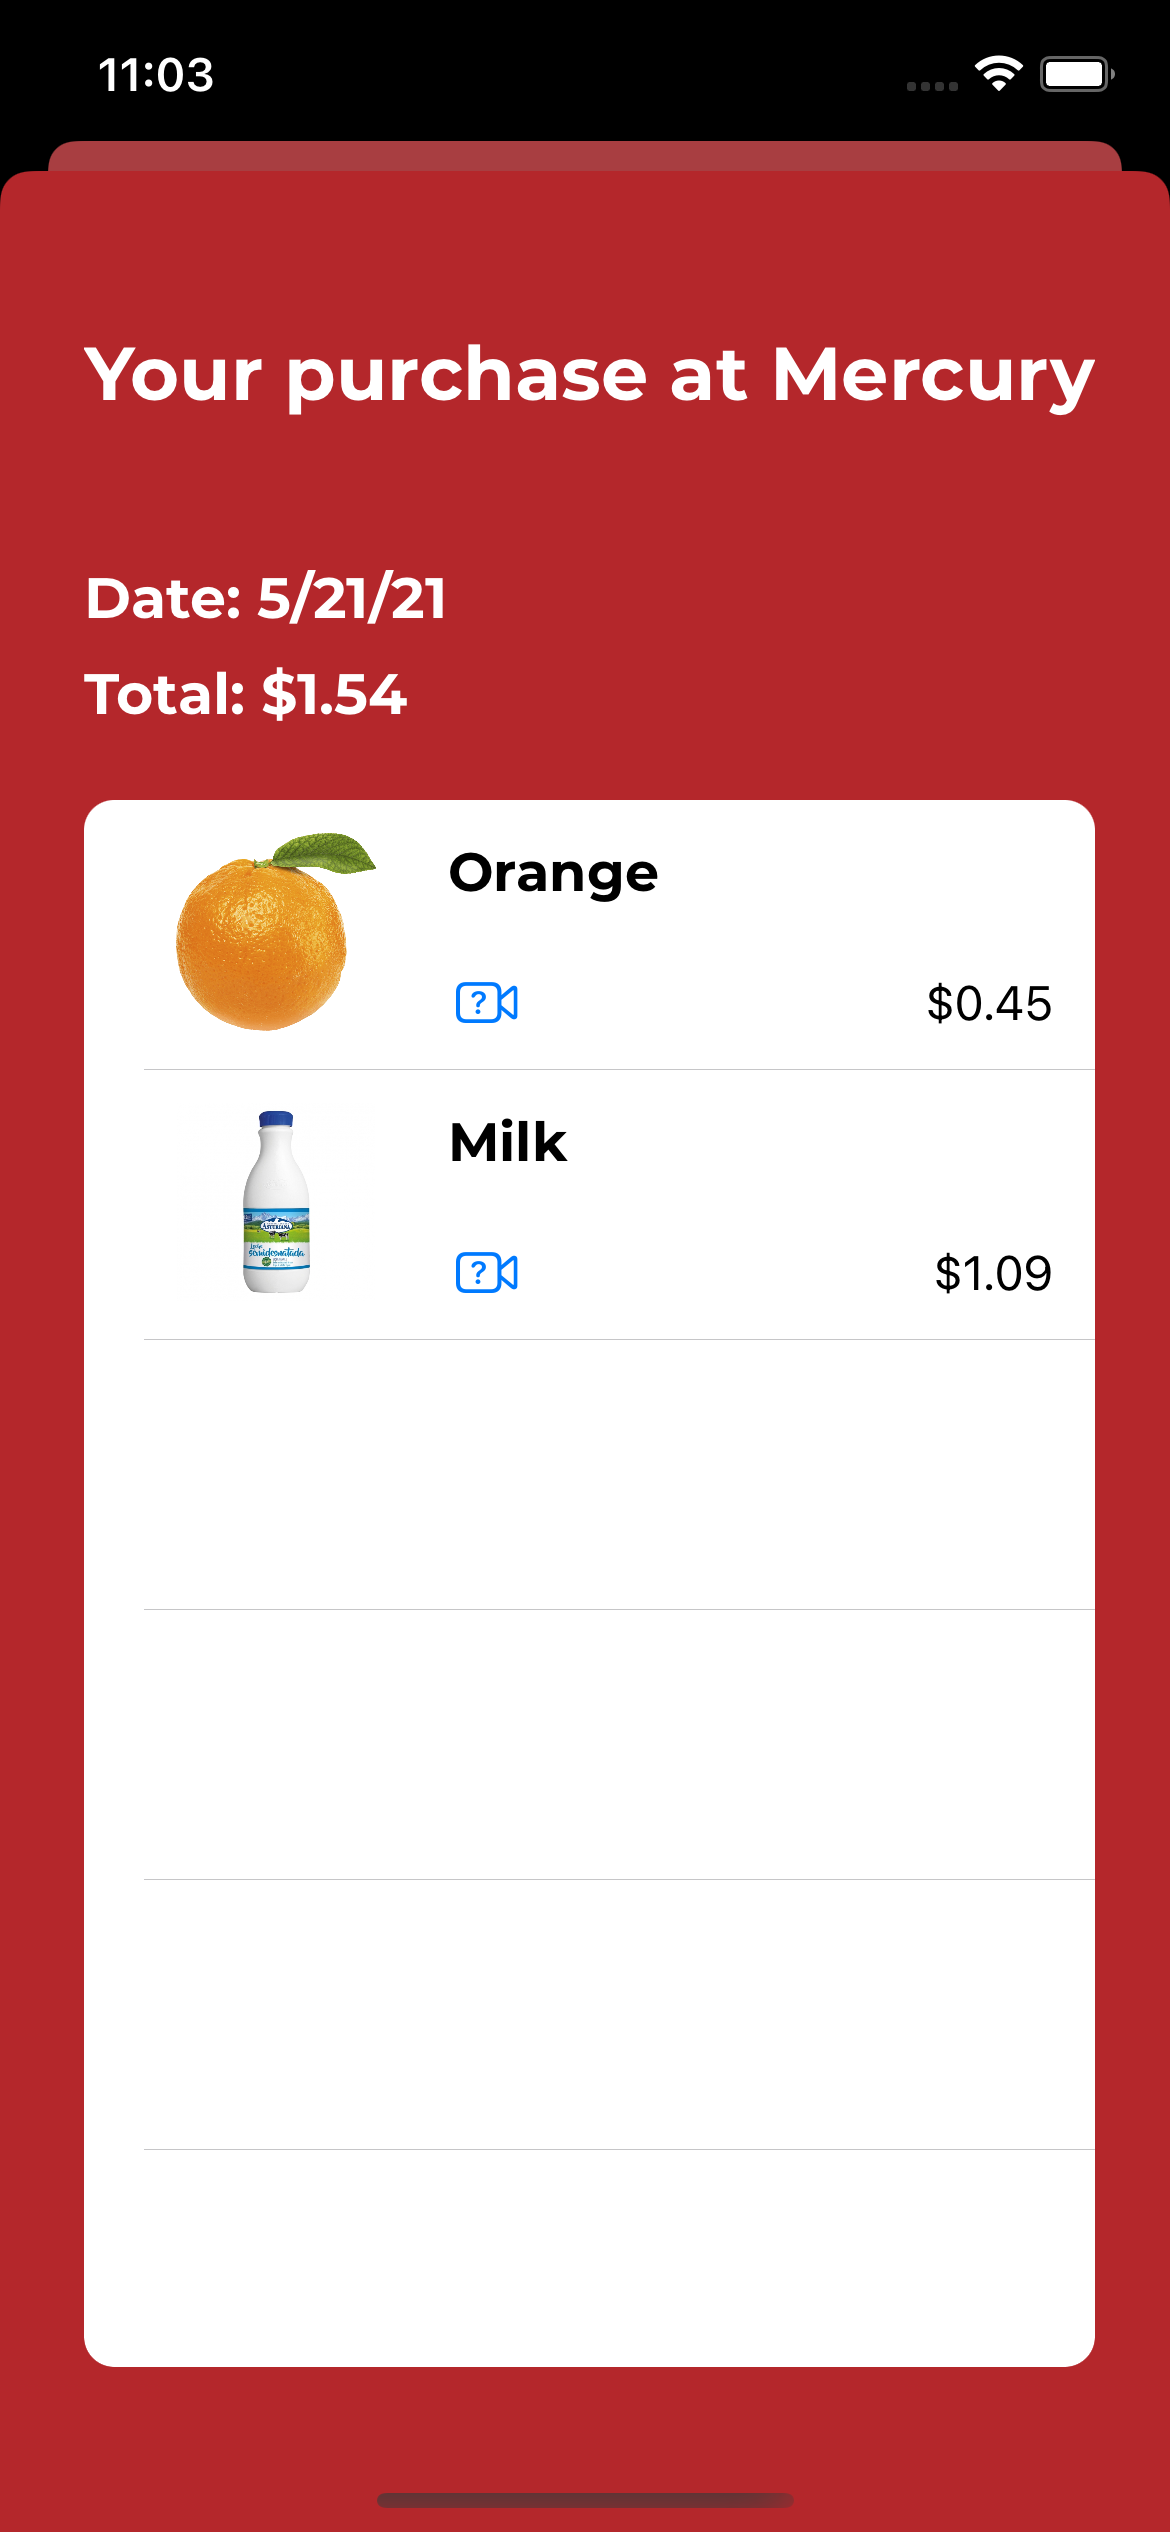
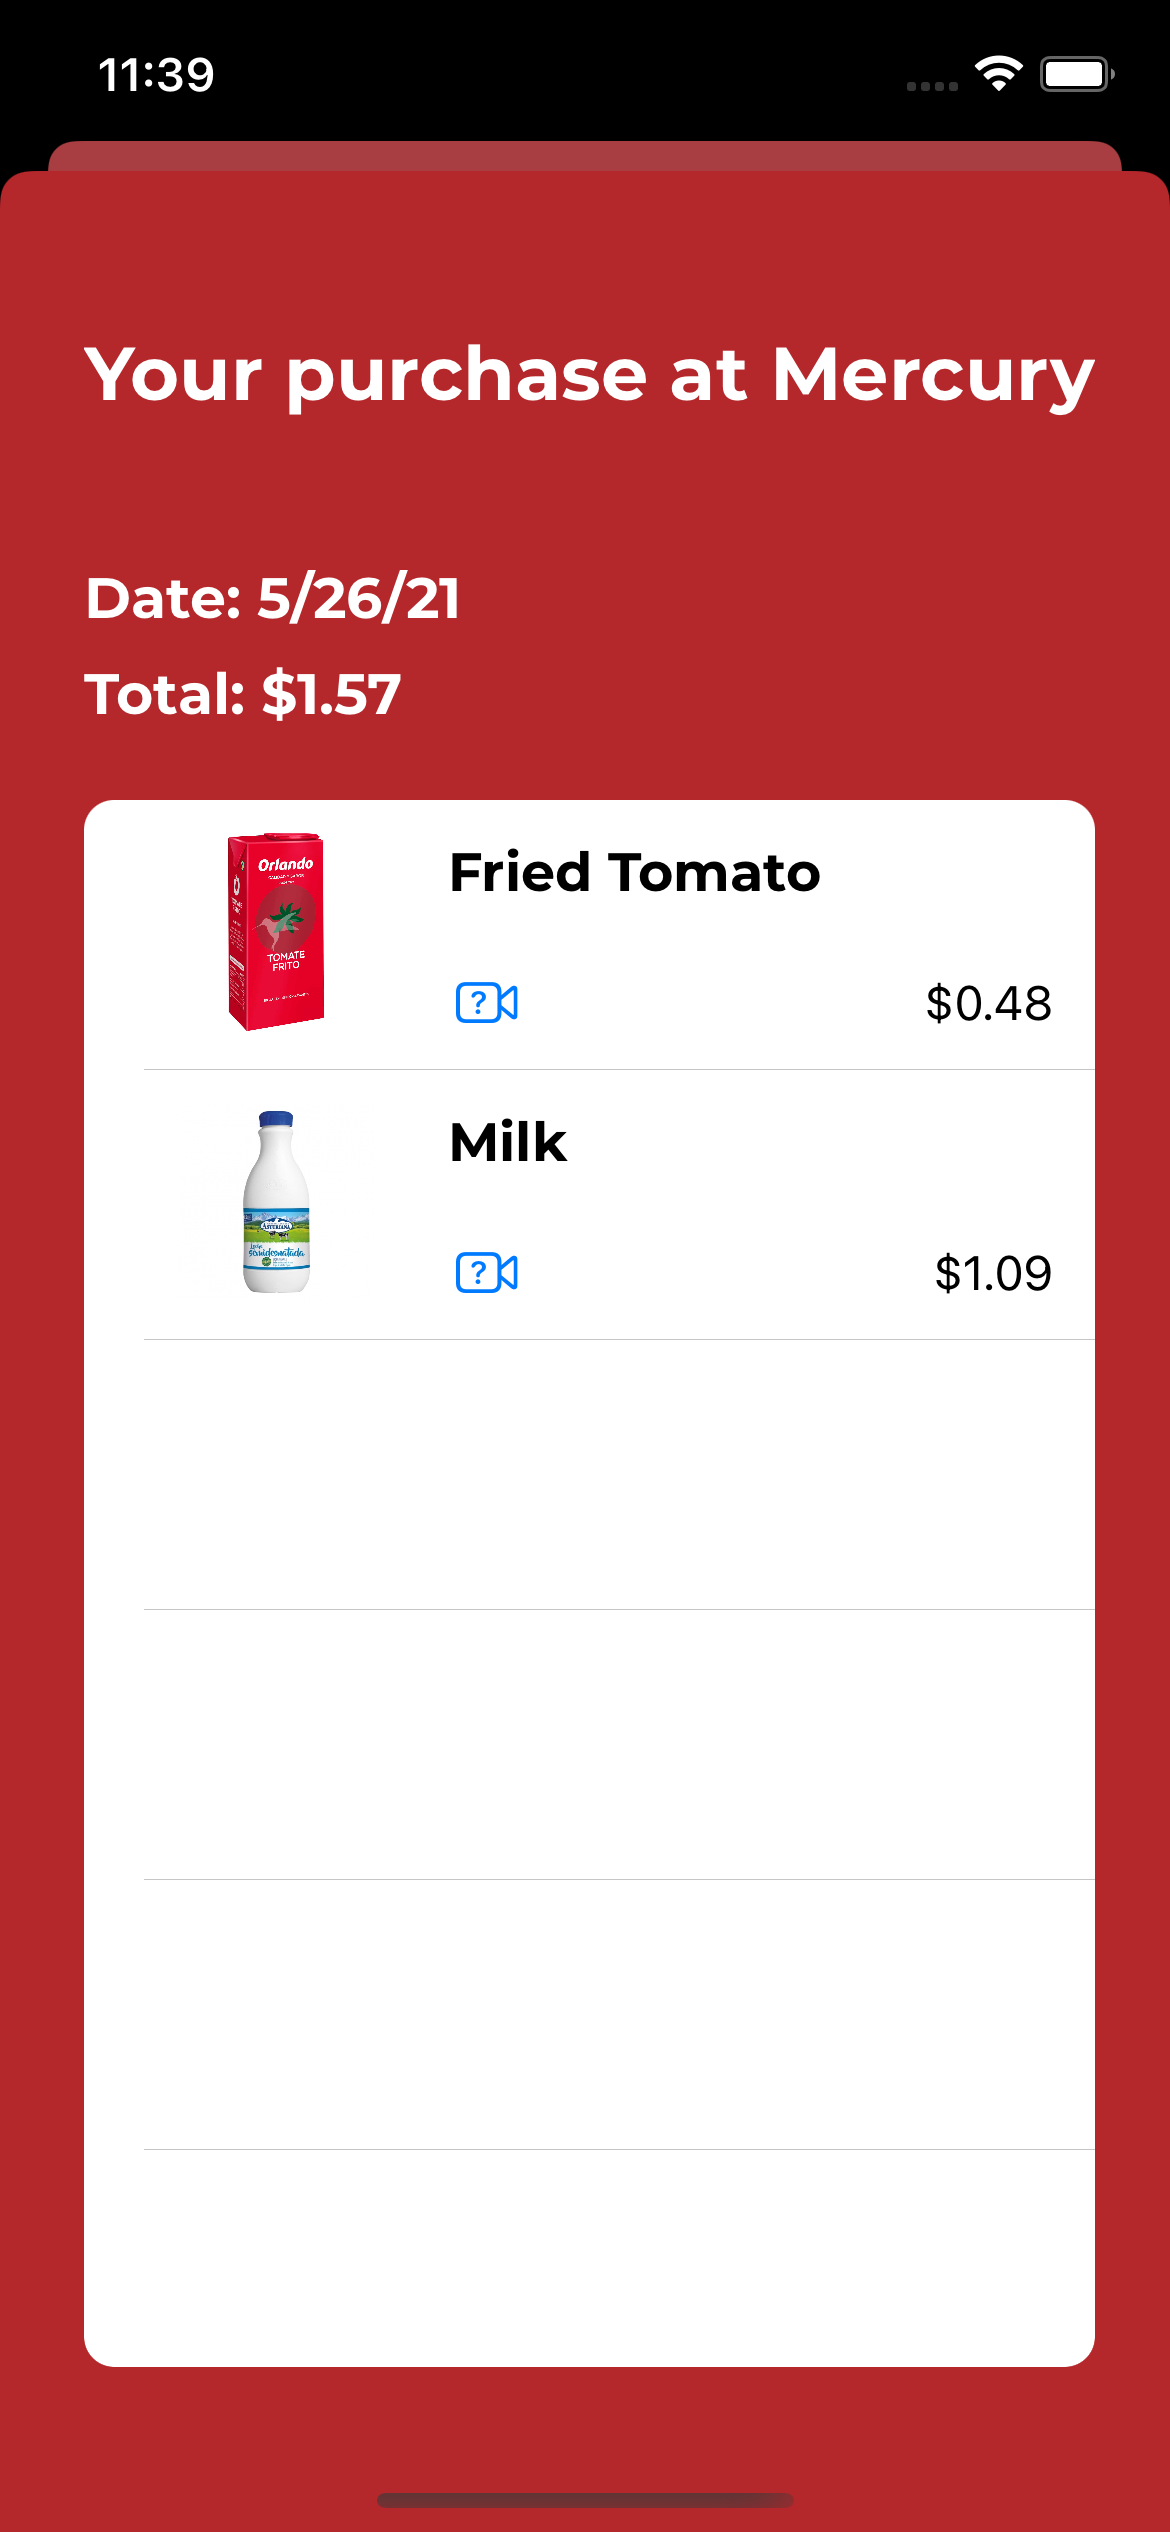
Updating examples

diff --git a/Mercury iOS App/View Controllers/TicketsViewController.swift b/Mercury iOS App/View Controllers/TicketsViewController.swift
@@ -21,7 +21,7 @@ class TicketsViewController: UIViewController {
     }
     
     func fetchData() -> [Ticket] {
-        let ticket1 = Ticket(date: Date(), items: [Item(image: UIImage(named: "orange.png")!, name: "Orange", price: 0.45), Item(image: UIImage(named: "milk.jpg")!, name: "Milk", price: 1.09)])
+        let ticket1 = Ticket(date: Date(), items: [Item(image: UIImage(named: "orlando.jpg")!, name: "Fried Tomato", price: 0.48), Item(image: UIImage(named: "milk.jpg")!, name: "Milk", price: 1.09)])
         let ticket2 = Ticket(date: Date(timeIntervalSinceReferenceDate: 123435456789.0), items: [Item(image: UIImage(named: "milk.jpg")!, name: "Milk", price: 1.09)])
         return [ticket1, ticket2]
     }

diff --git a/README.md b/README.md
@@ -18,9 +18,9 @@ Tickets           |  Ticket in detail
 :-------------------------:|:-------------------------:
 <img src="https://github.com/Mercury-Smartstores/Mercury-iOS-App/blob/main/readme-assets/App-tickets.png" alt="Tickets screen" width="250"/>  |  <img src="https://github.com/Mercury-Smartstores/Mercury-iOS-App/blob/main/readme-assets/App-ticket-detail.png" alt="Ticket in detail" width="250"/> 
 
-Ticket resume          |  Ticket resume when no purchase
-:-------------------------:|:-------------------------:
-<img src="https://github.com/Mercury-Smartstores/Mercury-iOS-App/blob/main/readme-assets/App-purchase.png" alt="Ticket resume" width="250"/>  |  <img src="https://github.com/Mercury-Smartstores/Mercury-iOS-App/blob/main/readme-assets/App-no-purchase.png" alt="Ticket resume (no purchase)" width="250"/> 
+Ticket resume          |  Ticket resume when no purchase          |  Explanation video displayed
+:-------------------------:|:-------------------------:|:-------------------------:
+<img src="https://github.com/Mercury-Smartstores/Mercury-iOS-App/blob/main/readme-assets/App-purchase.png" alt="Ticket resume" width="250"/>  |  <img src="https://github.com/Mercury-Smartstores/Mercury-iOS-App/blob/main/readme-assets/App-no-purchase.png" alt="Ticket resume (no purchase)" width="250"/> |  <img src="https://github.com/Mercury-Smartstores/Mercury-iOS-App/blob/main/readme-assets/App-explanation.png" alt="Explanation" width="250"/> 
   
 ### 🔧 Installation
 
